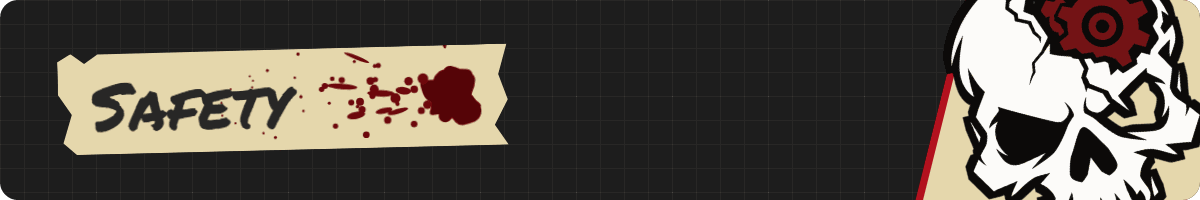
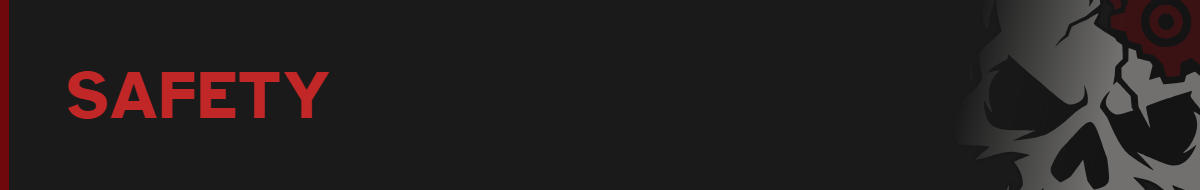
README: new look (images, placeholder hero)
The README's pictures come from the new promo set: section strips in the design system, screenshots and clips from the
1.2.7 build with real Workshop content, and a placeholder hero until the 2-minute video. Find the broken mod shows a
still and drops the launch count; the automation screenshot had no replacement, so it's gone.

diff --git a/README.md b/README.md
@@ -9,7 +9,7 @@
   <a href="#install"><b>Install</b></a> · <a href="../../releases/latest">Download</a> · <a href="https://discord.com/invite/6URUy6mNzu">Discord</a> · <a href="docs/FEATURES.md">Everything it does</a>
 </p>
 
-https://github.com/user-attachments/assets/d7037934-046d-4854-9984-eab824669963
+<p align="center"><img src="docs/media/hero.gif" alt="PZMM: dragging a mod into place, renaming a group, then Autosort sorting the load order" width="900"></p>
 
 I made PZMM because of [Project Viewpoint](https://steamcommunity.com/sharedfiles/filedetails/?id=3809306528). Getting it running means two Workshop items, a jar and a DLL in the game folder and a launch flag, and the next game update can wipe the flag again. PZMM does all of that from one menu.
 
@@ -100,10 +100,10 @@ Your library and the load order are two separate lists, like Mod Organizer 2. Ar
 
 ### Find the broken mod
 
-The game crashes and the log won't say why. **Find the broken mod** turns off half your mods, you test, it halves again. 100 mods takes about 7 launches, which is still fewer than it takes to find car keys in Muldraugh. It starts with the mods the log blames, and puts your list back when you're done.
+The game crashes and the log won't say why. **Find the broken mod** turns off half your mods, you test, it halves again until it's found. It starts with the mods the log blames, and puts your list back when you're done.
 
 <p align="center">
-  <img src="docs/media/find-broken-mod.gif" alt="Find the broken mod in progress: round 2 with 9 suspects left, then round 4 with 2 suspects, with buttons for The problem still happens and The problem is gone" width="720">
+  <img src="docs/media/find-broken-mod.jpg" alt="Find the broken mod in progress: the mods being tested this round, with buttons for The problem still happens and The problem is gone" width="900">
 </p>
 
 **Check setup** catches a lot before you get that far: wrong-build mods, missing or late requirements, conflicts, broken Lua, duplicate mod IDs and Workshop items that have vanished.
@@ -157,10 +157,6 @@ Once it's up you get a live console with errors, chat and mod lines picked out a
 </p>
 
 When a mod updates, PZMM can warn players in game (15, 5 and 1 minutes before), save, update and start the server again, or wait until nobody's on. There are daily restart times, scheduled saves and backups, and crash restarts. Leave PZMM in the tray and all of that keeps running with the window closed.
-
-<p align="center">
-  <img src="docs/media/servers-automation.jpg" alt="The Automation page: what to do when a mod updates on the Workshop, minutes to warn players before a restart, a daily restart time, backup schedule and crash watch" width="900">
-</p>
 
 For Discord there are webhook alerts (started, stopped, crashed with the last log lines, mods updated, joins and leaves), a live status message, optional bot commands for a role you pick, and an optional two-way relay between the game's general chat and a Discord channel.
 
